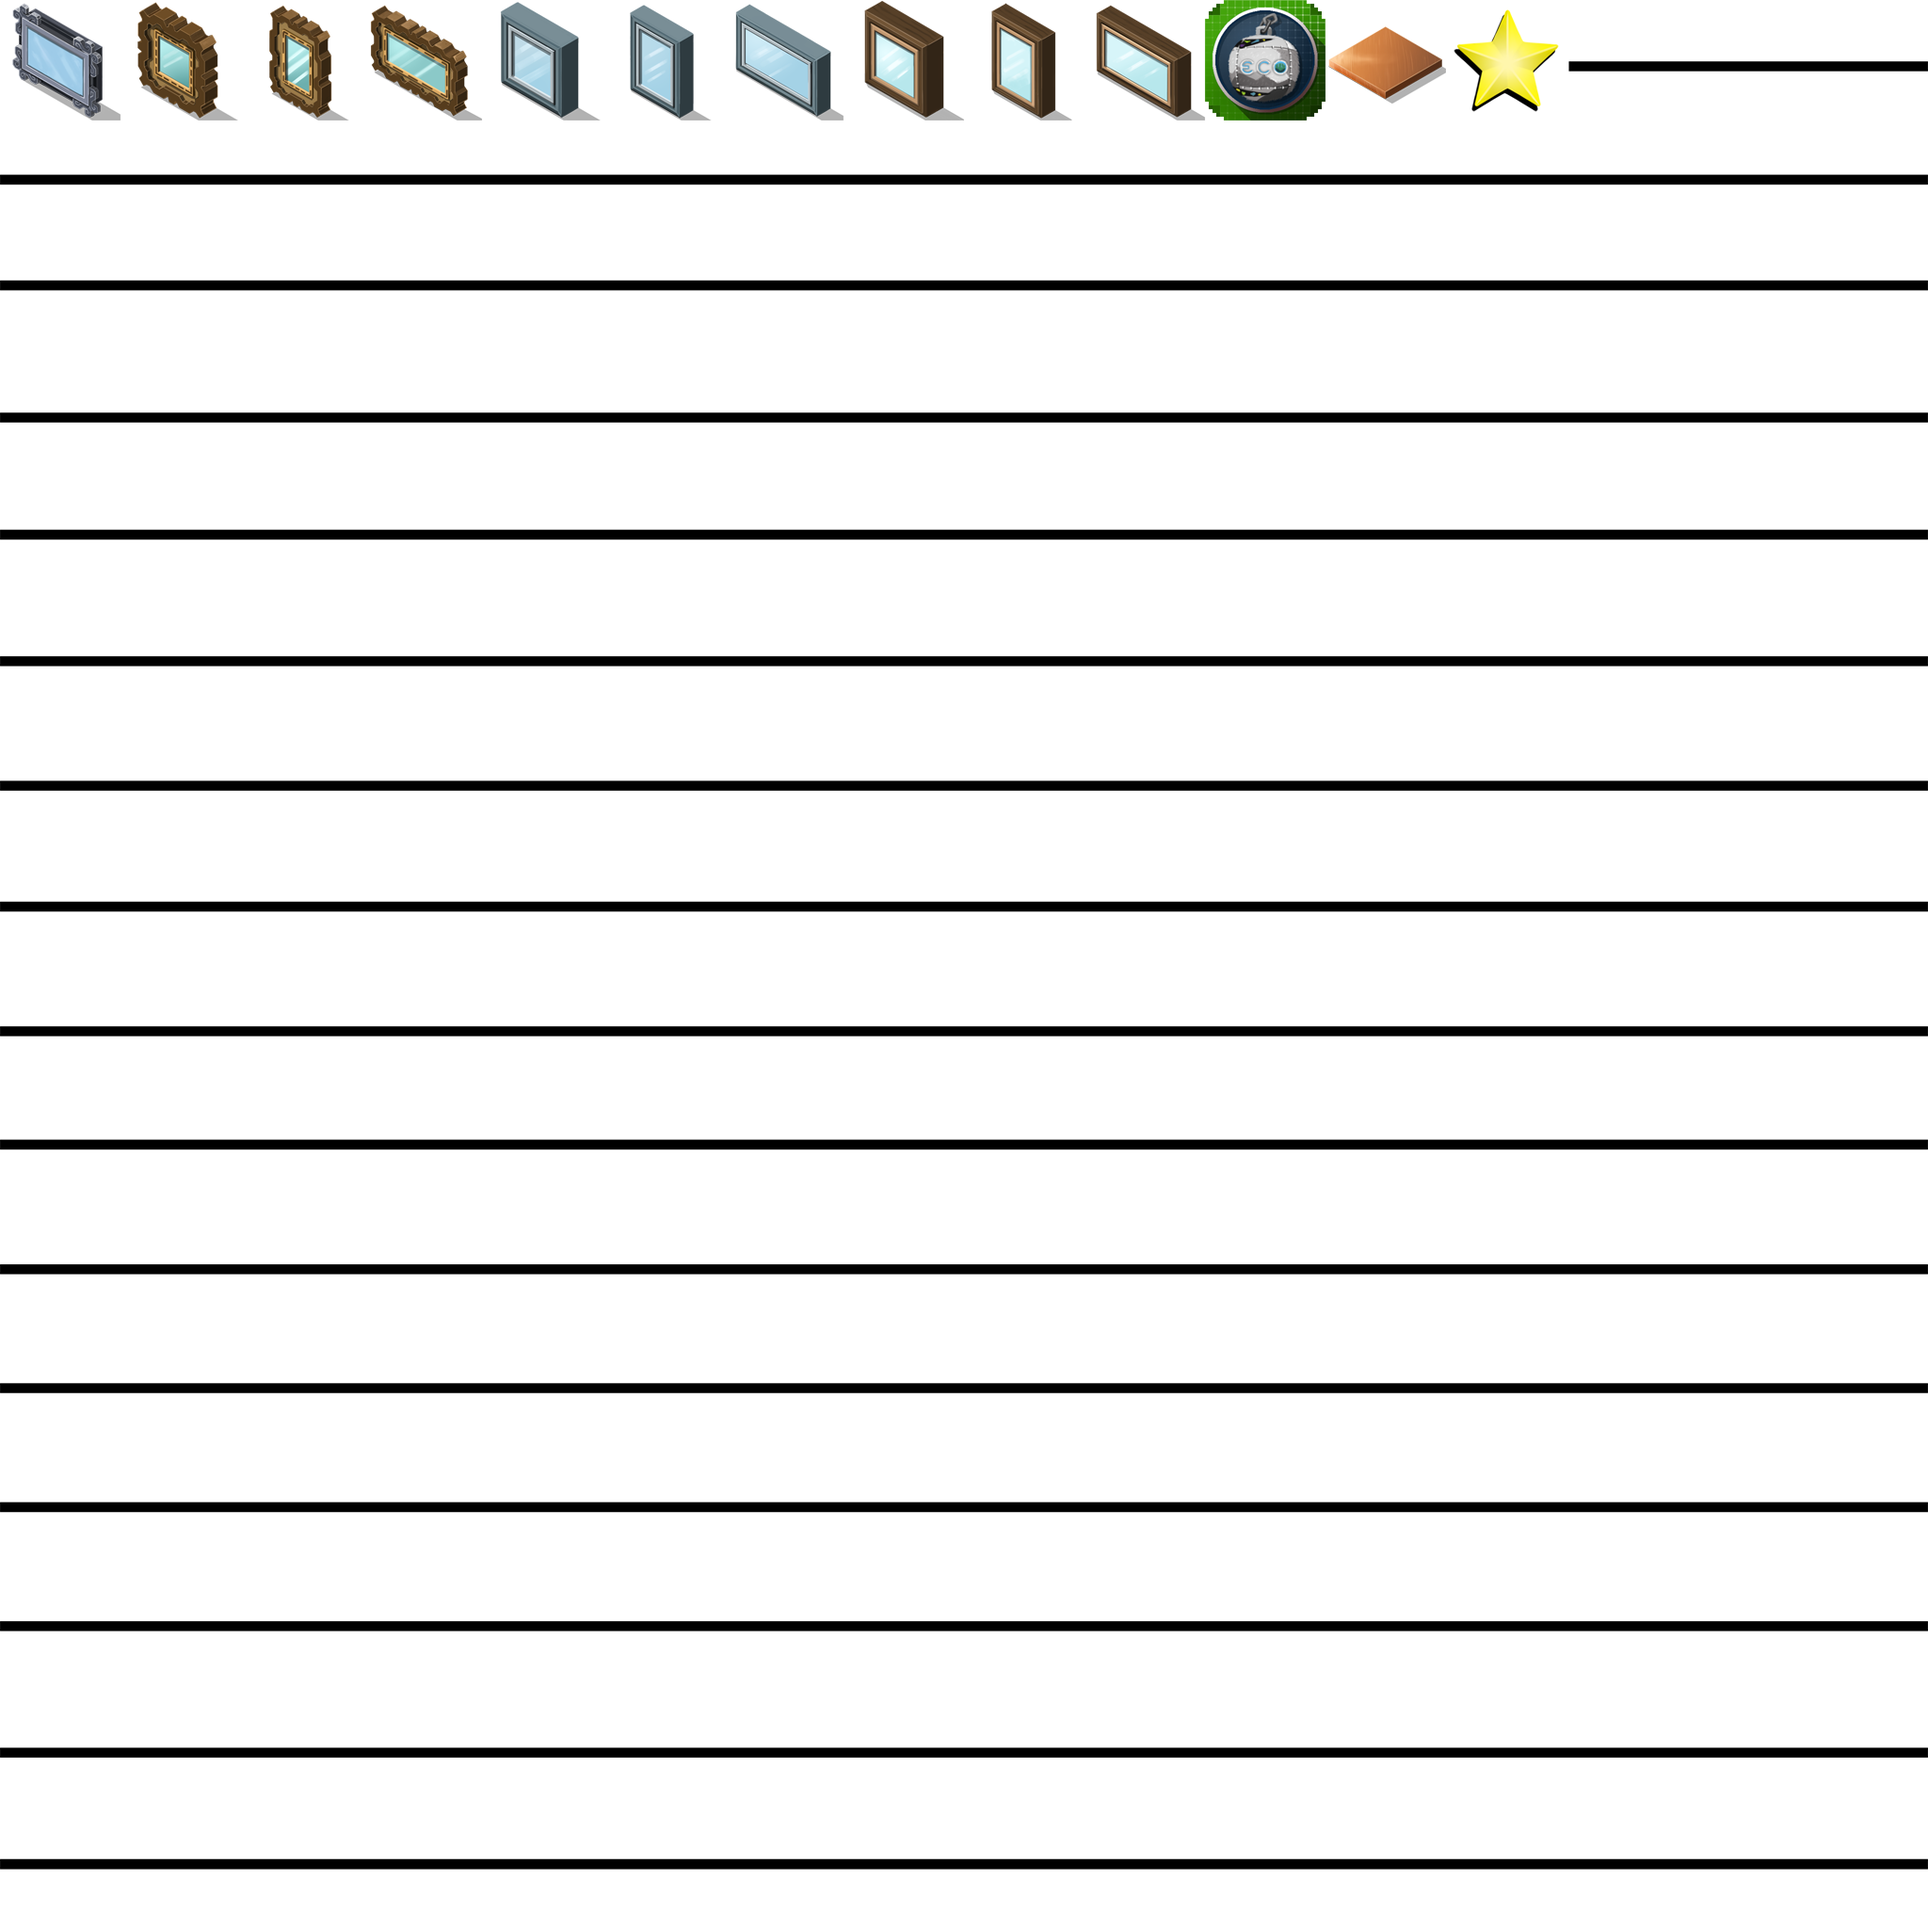
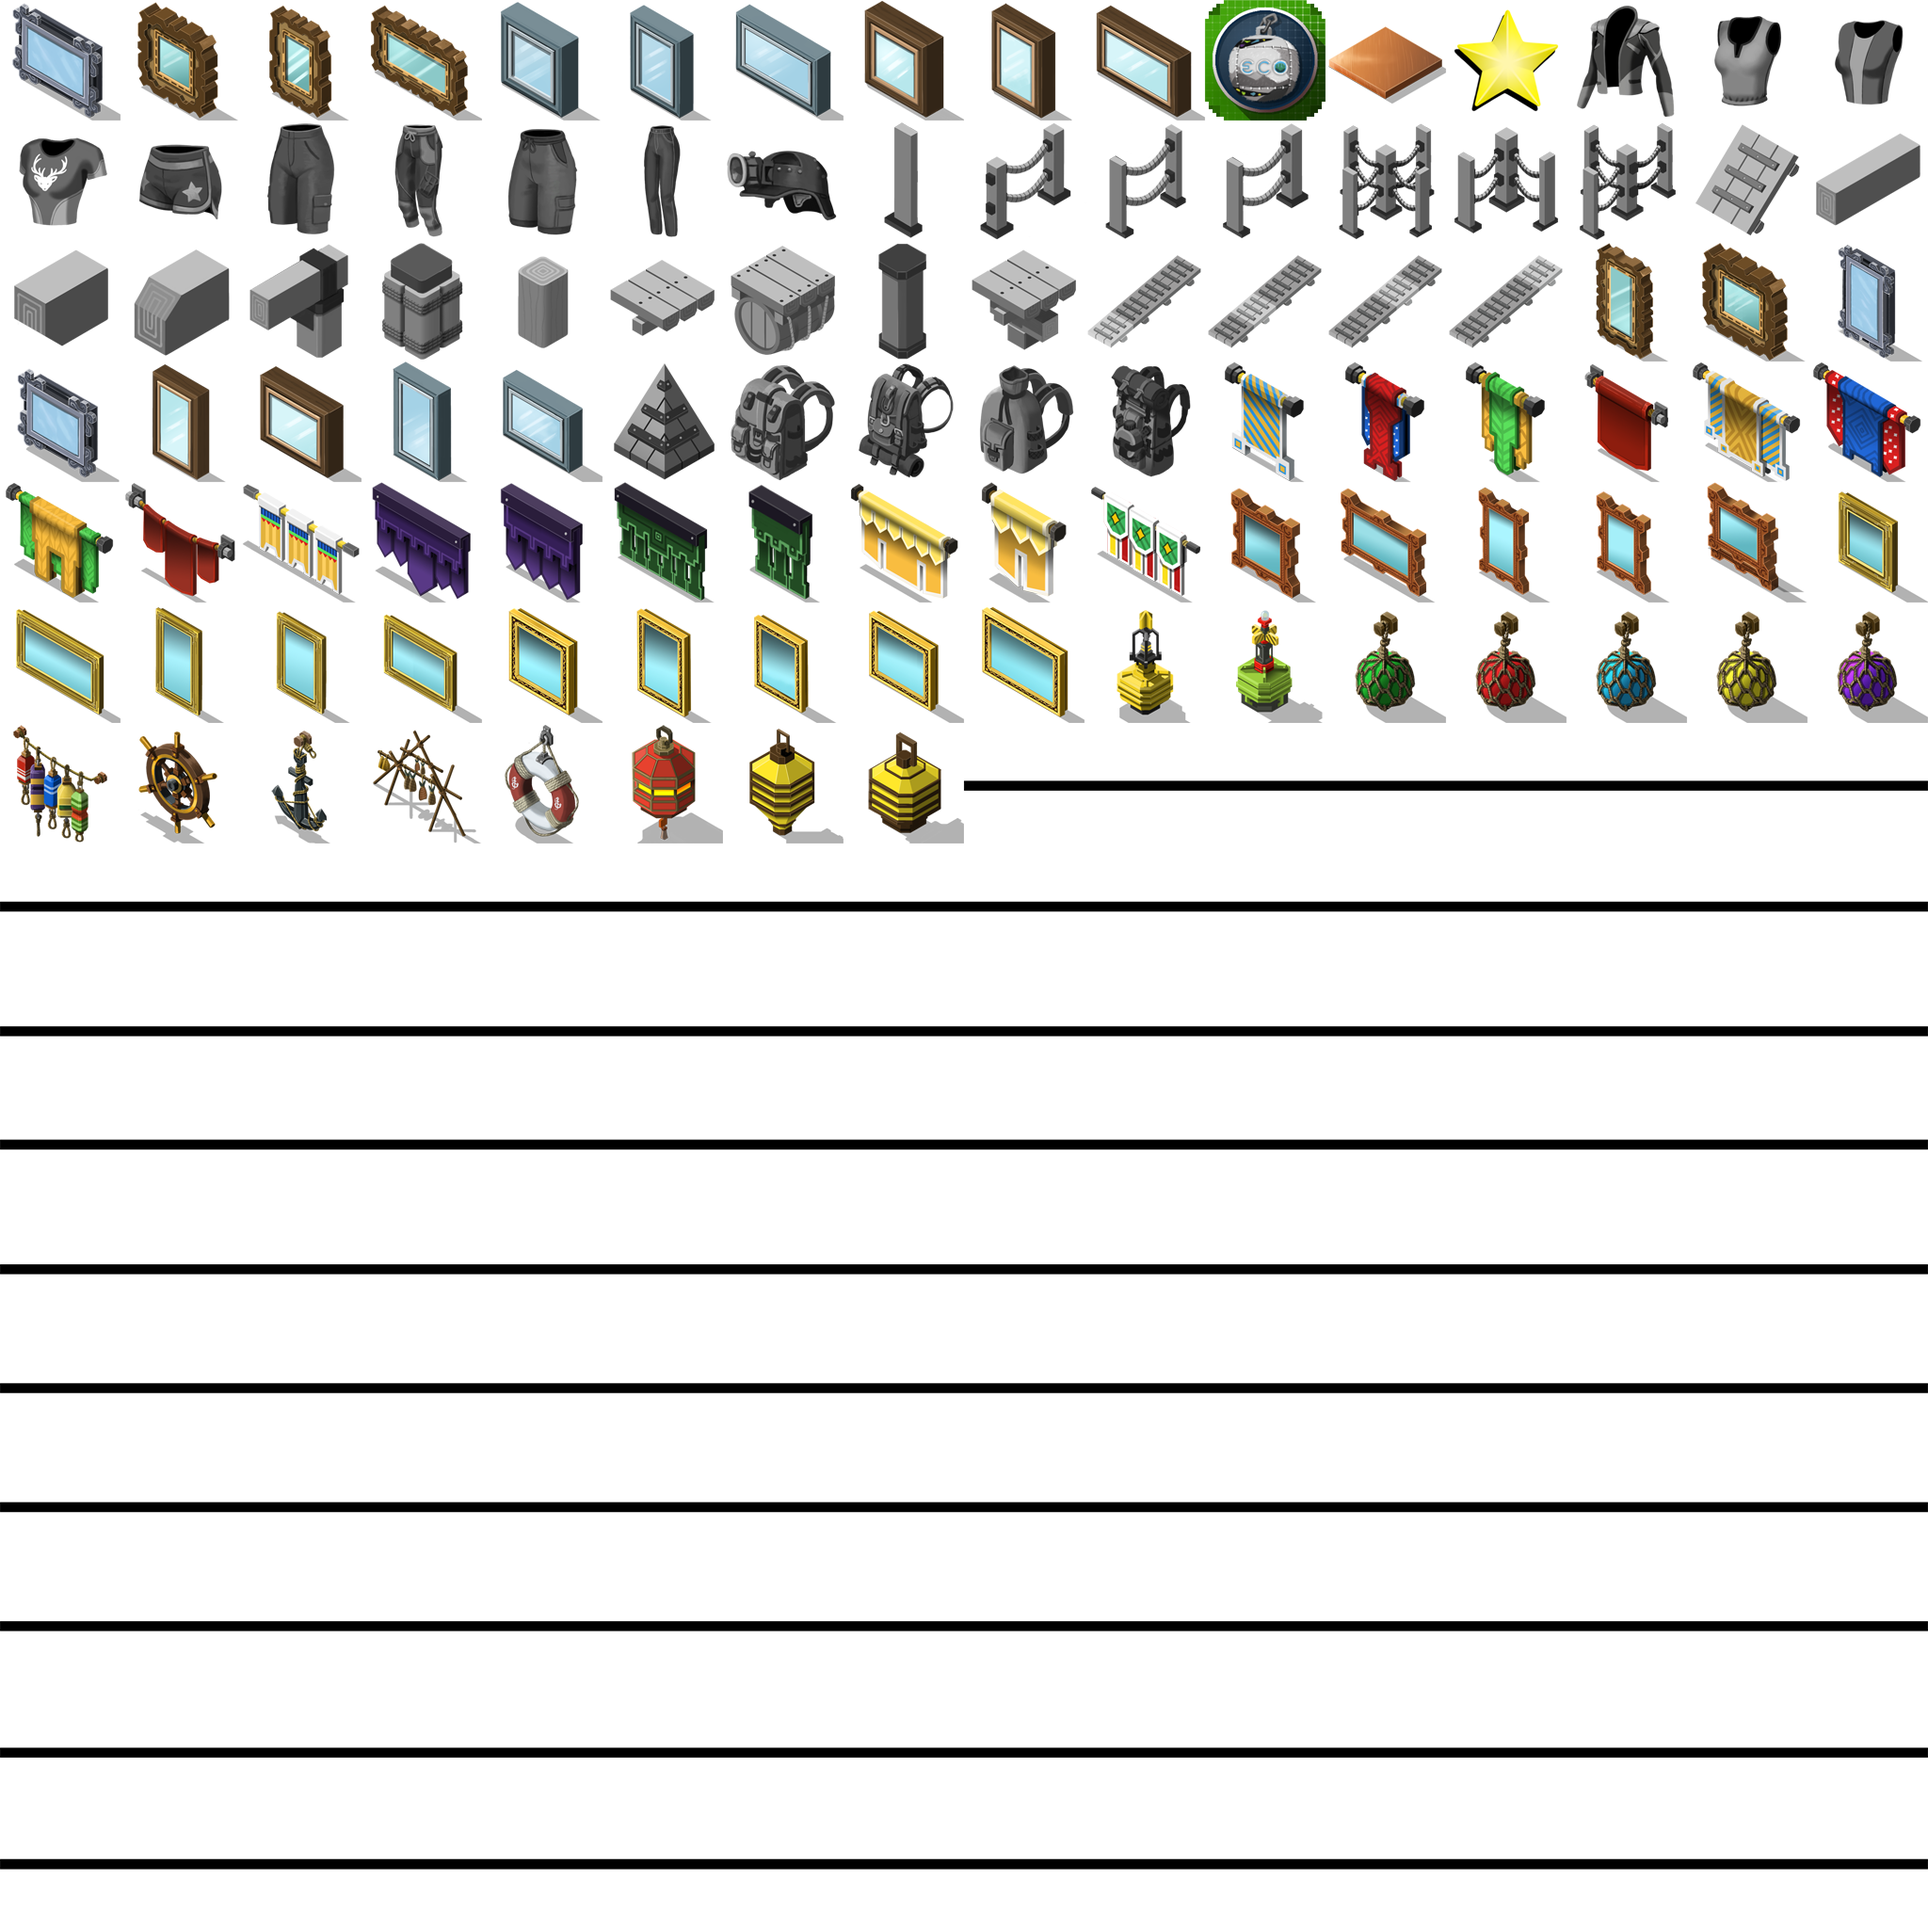
Add initial items and tables for Eco 10.0

Changed region(s): [[0.0, 0.0, 1.0, 0.4375]]

diff --git a/src/assets/data/items.ts b/src/assets/data/items.ts
@@ -8106,5 +8106,261 @@ export let items: Item[] =
       'imageFile': 'UI_Icons_06.png',
       'xPos': 11,
       'yPos': 0
+    },
+    {
+      'name': 'Industrial Barge',
+      'nameID': 'IndustrialBargeItem',
+      'tag': false,
+      'imageFile': 'UI_Icons_05.png',
+      'xPos': 4,
+      'yPos': 13
+    },
+    {
+      'name': 'Small Canoe',
+      'nameID': 'SmallCanoeItem',
+      'tag': false,
+      'imageFile': 'UI_Icons_05.png',
+      'xPos': 1,
+      'yPos': 13
+    },
+    {
+      'name': 'Large Canoe',
+      'nameID': 'LargeCanoeItem',
+      'tag': false,
+      'imageFile': 'UI_Icons_05.png',
+      'xPos': 2,
+      'yPos': 13
+    },
+    {
+      'name': 'Medium Fishing Trawler',
+      'nameID': 'MediumFishingTrawlerItem',
+      'tag': false,
+      'imageFile': 'UI_Icons_05.png',
+      'xPos': 6,
+      'yPos': 13
+    },
+    {
+      'name': 'Small Wooden Boat',
+      'nameID': 'SmallWoodenBoatItem',
+      'tag': false,
+      'imageFile': 'UI_Icons_05.png',
+      'xPos': 0,
+      'yPos': 13
+    },
+    {
+      'name': 'Wooden Barge',
+      'nameID': 'WoodenBargeItem',
+      'tag': false,
+      'imageFile': 'UI_Icons_05.png',
+      'xPos': 3,
+      'yPos': 13
+    },
+    {
+      'name': 'Wooden Transport Ship',
+      'nameID': 'WoodenTransportShipItem',
+      'tag': false,
+      'imageFile': 'UI_Icons_05.png',
+      'xPos': 5,
+      'yPos': 13
+    },
+    {
+      'name': 'Small Shipyard',
+      'nameID': 'SmallShipyardItem',
+      'tag': false,
+      'imageFile': 'UI_Icons_05.png',
+      'xPos': 11,
+      'yPos': 15
+    },
+    {
+      'name': 'Medium Shipyard',
+      'nameID': 'MediumShipyardItem',
+      'tag': false,
+      'imageFile': 'UI_Icons_05.png',
+      'xPos': 10,
+      'yPos': 8
+    },
+    {
+      'name': 'Wooden Hull Planks',
+      'nameID': 'WoodenHullPlanksItem',
+      'tag': false,
+      'imageFile': 'UI_Icons_05.png',
+      'xPos': 13,
+      'yPos': 14
+    },
+    {
+      'name': 'Small Wooden Ship Frame',
+      'nameID': 'SmallWoodenShipFrameItem',
+      'tag': false,
+      'imageFile': 'UI_Icons_05.png',
+      'xPos': 12,
+      'yPos': 14
+    },
+    {
+      'name': 'Medium Wooden Ship Frame',
+      'nameID': 'MediumWoodenShipFrameItem',
+      'tag': false,
+      'imageFile': 'UI_Icons_05.png',
+      'xPos': 8,
+      'yPos': 14
+    },
+    {
+      'name': 'Wooden Moorage Post',
+      'nameID': 'WoodenMooragePostItem',
+      'tag': false,
+      'imageFile': 'UI_Icons_05.png',
+      'xPos': 10,
+      'yPos': 15
+    },
+    {
+      'name': 'Steel Moorage Post',
+      'nameID': 'SteelMooragePostItem',
+      'tag': false,
+      'imageFile': 'UI_Icons_05.png',
+      'xPos': 9,
+      'yPos': 15
+    },
+    {
+      'name': 'Outpost Netting',
+      'nameID': 'OutpostNettingItem',
+      'tag': false,
+      'imageFile': 'UI_Icons_05.png',
+      'xPos': 10,
+      'yPos': 15
+    },
+    {
+      'name': 'Decorative Life Preserver',
+      'nameID': 'DecorativeLifePreserverItem',
+      'tag': false,
+      'imageFile': 'UI_Icons_06.png',
+      'xPos': 4,
+      'yPos': 6
+    },
+    {
+      'name': 'Decorative Hanging Buoy',
+      'nameID': 'DecorativeHangingBuoyItem',
+      'tag': false,
+      'imageFile': 'UI_Icons_06.png',
+      'xPos': 9,
+      'yPos': 5
+    },
+    {
+      'name': 'Iron Hull Sheet',
+      'nameID': 'IronHullSheetItem',
+      'tag': false,
+      'imageFile': 'UI_Icons_05.png',
+      'xPos': 4,
+      'yPos': 14
+    },
+    {
+      'name': 'Metal Rudder',
+      'nameID': 'MetalRudderItem',
+      'tag': false,
+      'imageFile': 'UI_Icons_05.png',
+      'xPos': 9,
+      'yPos': 14
+    },
+    {
+      'name': 'Large Wooden Ship Frame',
+      'nameID': 'LargeWoodenShipFrameItem',
+      'tag': false,
+      'imageFile': 'UI_Icons_05.png',
+      'xPos': 6,
+      'yPos': 14
+    },
+    {
+      'name': 'Large Metal Ship Frame',
+      'nameID': 'LargeMetalShipFrameItem',
+      'tag': false,
+      'imageFile': 'UI_Icons_05.png',
+      'xPos': 5,
+      'yPos': 14
+    },
+    {
+      'name': 'Medium Metal Ship Frame',
+      'nameID': 'MediumMetalShipFrameItem',
+      'tag': false,
+      'imageFile': 'UI_Icons_05.png',
+      'xPos': 7,
+      'yPos': 14
+    },
+    {
+      'name': 'Wooden Oar',
+      'nameID': 'WoodenOarItem',
+      'tag': false,
+      'imageFile': 'UI_Icons_05.png',
+      'xPos': 15,
+      'yPos': 14
+    },
+    {
+      'name': 'Wooden Rudder',
+      'nameID': 'WoodenRudderItem',
+      'tag': false,
+      'imageFile': 'UI_Icons_05.png',
+      'xPos': 14,
+      'yPos': 14
+    },
+    {
+      'name': 'Wooden Keel',
+      'nameID': 'WoodenKeelItem',
+      'tag': false,
+      'imageFile': 'UI_Icons_05.png',
+      'xPos': 14,
+      'yPos': 14
+    },
+    {
+      'name': 'Metal Keel',
+      'nameID': 'MetalKeelItem',
+      'tag': false,
+      'imageFile': 'UI_Icons_05.png',
+      'xPos': 9,
+      'yPos': 14
+    },
+    {
+      'name': 'Iron Anchor',
+      'nameID': 'IronAnchorItem',
+      'tag': false,
+      'imageFile': 'UI_Icons_05.png',
+      'xPos': 3,
+      'yPos': 14
+    },
+    {
+      'name': 'Linen Yarn',
+      'nameID': 'LinenYarnItem',
+      'tag': false,
+      'imageFile': 'UI_Icons_05.png',
+      'xPos': 2,
+      'yPos': 14
+    },
+    {
+      'name': 'Hemp Mooring Rope',
+      'nameID': 'HempMooringRopeItem',
+      'tag': false,
+      'imageFile': 'UI_Icons_05.png',
+      'xPos': 2,
+      'yPos': 14
+    },
+    {
+      'name': 'Nylon Mooring Rope',
+      'nameID': 'NylonMooringRopeItem',
+      'tag': false,
+      'imageFile': 'UI_Icons_05.png',
+      'xPos': 11,
+      'yPos': 14
+    },
+    {
+      'name': 'Handheld Camera',
+      'nameID': 'HandheldCameraItem',
+      'tag': false,
+      'imageFile': 'UI_Icons_05.png',
+      'xPos': 12,
+      'yPos': 15
+    },
+    {
+      'name': 'Tripod Camera',
+      'nameID': 'TripodCameraItem',
+      'tag': false,
+      'imageFile': 'UI_Icons_05.png',
+      'xPos': 13,
+      'yPos': 15
     }
   ];

diff --git a/src/assets/data/crafting-tables.ts b/src/assets/data/crafting-tables.ts
@@ -309,6 +309,15 @@ export let craftingTables: CraftingTable[] =
       'yPos': 10
     },
     {
+      'name': 'MediumShipyard',
+      'nameID': 'MediumShipyardObject',
+      'upgradeModuleType': 'AdvancedUpgrade',
+      'hidden': false,
+      'imageFile': 'UI_Icons_05.png',
+      'xPos': 11,
+      'yPos': 15
+    },
+    {
       'name': 'Mill',
       'nameID': 'MillObject',
       'upgradeModuleType': 'AdvancedUpgrade',
@@ -415,6 +424,15 @@ export let craftingTables: CraftingTable[] =
       'imageFile': 'UI_Icons_01.png',
       'xPos': 15,
       'yPos': 3
+    },
+    {
+      'name': 'SmallShipyard',
+      'nameID': 'SmallShipyardObject',
+      'upgradeModuleType': 'BasicUpgrade',
+      'hidden': false,
+      'imageFile': 'UI_Icons_05.png',
+      'xPos': 11,
+      'yPos': 15
     },
     {
       'name': 'Spin Melter',

diff --git a/src/assets/data/skills.ts b/src/assets/data/skills.ts
@@ -323,6 +323,17 @@ export let skills: Skill[] =
       'yPos': 3
     },
     {
+      'name': 'Shipwright',
+      'nameID': 'ShipwrightSkill',
+      'basicUpgrade': true,
+      'advancedUpgrade': true,
+      'modernUpgrade': false,
+      'lavishWorkspace': true,
+      'imageFile': 'skill-icons-sprite.png',
+      'xPos': 6,
+      'yPos': 3
+    },
+    {
       'name': 'Tailoring',
       'nameID': 'TailoringSkill',
       'basicUpgrade': true,
